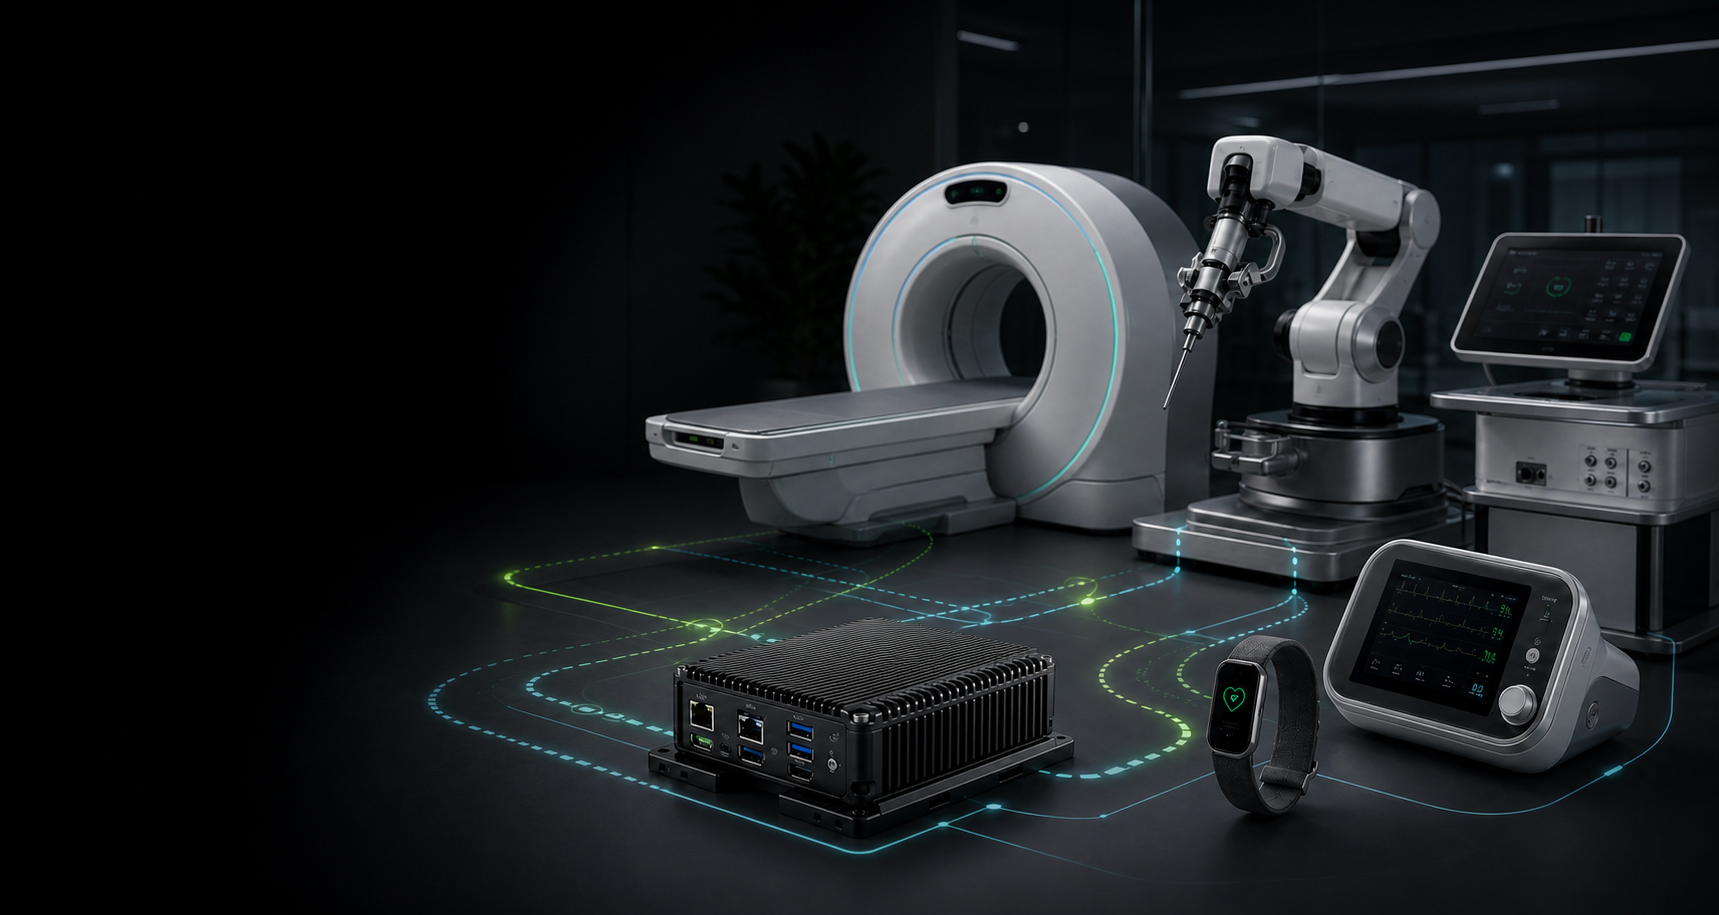
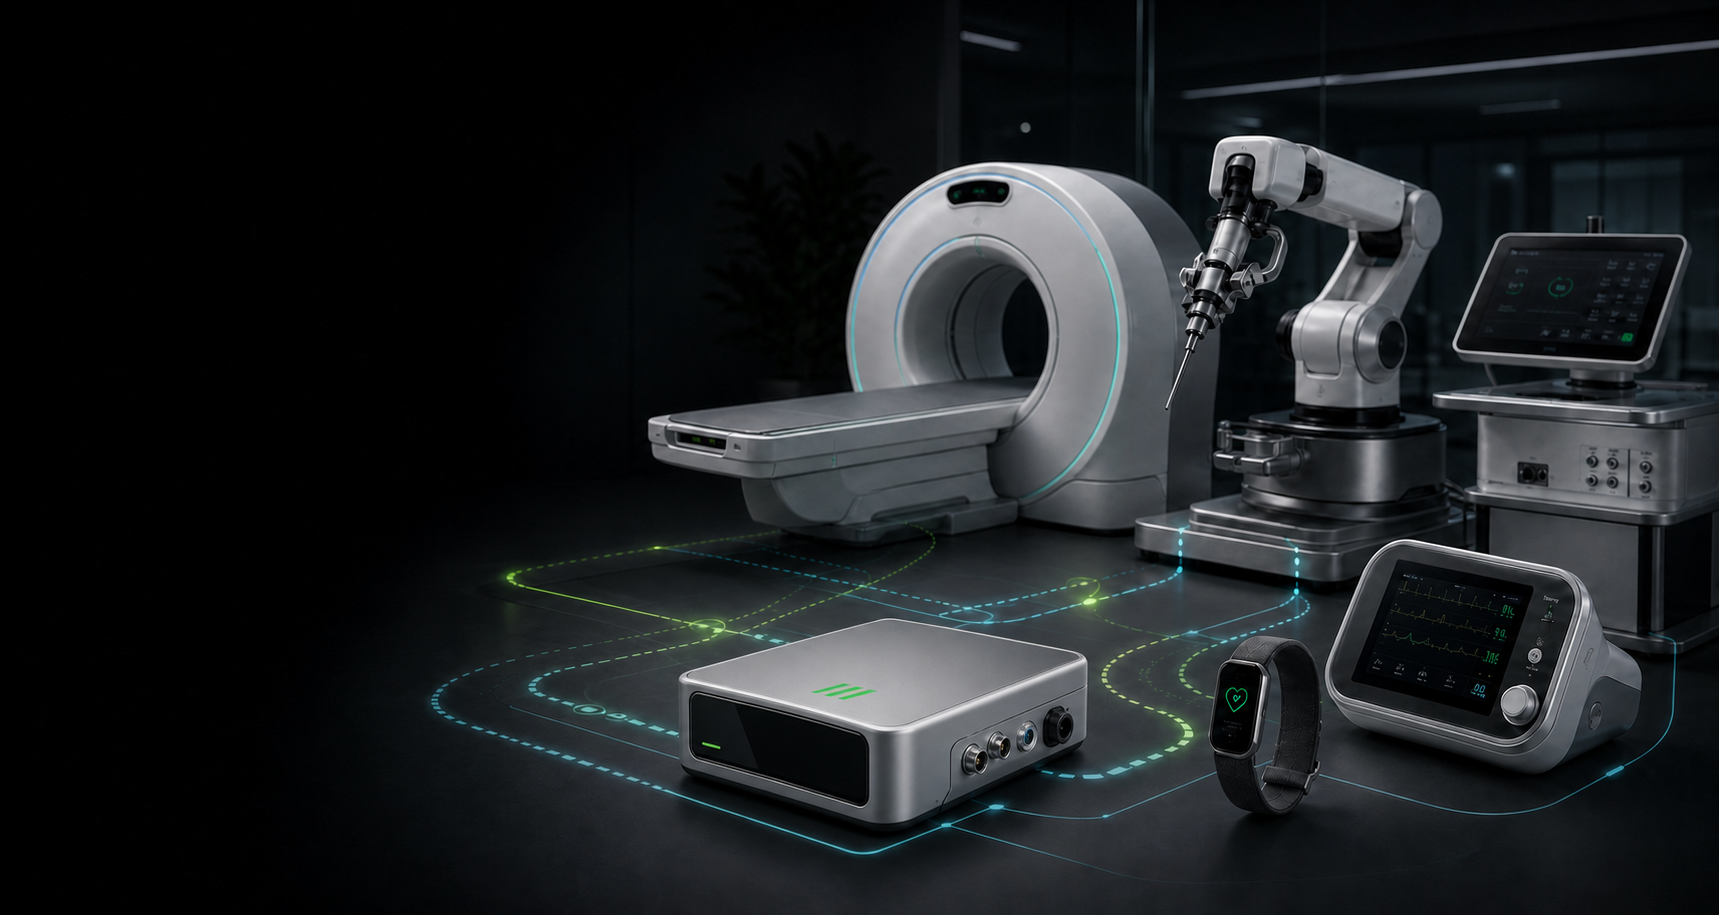
Refine medical partner hero

diff --git a/bootstrap-studio/en-medical-partners.html b/bootstrap-studio/en-medical-partners.html
@@ -1,6 +1,6 @@
 <!doctype html><html lang="en"><head><meta charset="utf-8"><meta name="viewport" content="width=device-width,initial-scale=1"><title>Medical Device Partners | HOLYCORES</title><meta name="description" content="HOLYCORES medical-device collaboration framework for joint development, validation, regulatory boundaries and lifecycle support."><link rel="icon" href="assets/brand/favicon.ico" sizes="any"><link rel="stylesheet" href="assets/style.css"></head>
 <body><main class="studio-detail partner-page medical-page"><header class="nav"><a class="brand" href="en.html"><img class="brand-logo" src="assets/brand/logo-1.0.svg" alt=""><strong>HOLYCORES</strong></a><nav><div class="nav-products"><a class="nav-products-trigger" href="en-products.html" aria-haspopup="true">Products <span aria-hidden="true">⌄</span></a><div class="nav-products-menu"><div class="mega-intro"><small>HOLYCORES COMPUTE PLATFORM</small><h2>From cloud,<br>to edge.</h2><p>One architecture and one software foundation, shaped for every place intelligence runs.</p><a href="en-products.html">Explore the platform →</a></div><div class="mega-products"><a class="mega-product" href="en-galaxy.html"><span class="mega-number">01</span><i aria-hidden="true"></i><div><small>CLOUD</small><h3>GALAXY</h3><b>Cloud AI System</b><p>Scale-out infrastructure for training and production inference.</p></div><em aria-hidden="true">↗</em></a><a class="mega-product" href="en-nova.html"><span class="mega-number">02</span><i aria-hidden="true"></i><div><small>DATACENTER</small><h3>NOVA</h3><b>Datacenter Accelerator</b><p>Efficient acceleration for private AI and high-throughput services.</p></div><em aria-hidden="true">↗</em></a><a class="mega-product" href="en-spark.html"><span class="mega-number">03</span><i aria-hidden="true"></i><div><small>EDGE</small><h3>SPARK</h3><b>Edge AI Processor</b><p>Responsive local intelligence under real power and space constraints.</p></div><em aria-hidden="true">↗</em></a></div><aside class="mega-side"><a href="en-software.html"><small>HOLYFLOW™</small><h3>Software completes the system.</h3><p>Compile, optimize, deploy, and operate across every HOLYCORES product.</p><span>Explore software →</span></a><a href="en-contact.html"><small>START WITH A WORKLOAD</small><h3>Build the right validation plan.</h3><span>Talk to the team →</span></a></aside></div></div><div class="nav-software"><a class="nav-software-trigger" href="en-software.html" aria-haspopup="true">Software <span aria-hidden="true">⌄</span></a><div class="nav-software-menu"><div class="software-mega-intro"><small>HOLYFLOW™ SOFTWARE</small><h2>From model,<br>to running system.</h2><p>One open stack connecting frameworks, compilation, operators, runtime and production deployment.</p><a href="en-software.html">Explore HOLYFLOW →</a></div><div class="software-mega-grid"><a href="en-software.html#compiler"><span>01</span><b>HOLYFLOW Compiler</b><small>Model import and hardware-aware compilation</small></a><a href="en-software.html#operators"><span>02</span><b>HOLYFLOW NN</b><small>Optimized Python / C++ operator library</small></a><a href="en-software.html#kernel"><span>03</span><b>HOLYFLOW Kernel</b><small>Custom operators and dataflow kernels</small></a><a href="en-software.html#runtime"><span>04</span><b>HOLYFLOW Runtime</b><small>Single-card, multi-card and cluster execution</small></a><a href="en-software.html#tools"><span>05</span><b>HOLYFLOW Studio</b><small>Graph analysis, profiling and debugging</small></a><a href="en-software.html#deployment"><span>06</span><b>HOLYFLOW Deploy</b><small>Model serving and fleet operations</small></a></div><aside class="software-mega-side"><small>DEVELOPER PATH</small><h3>From first model to custom kernel.</h3><p>Enter at the right abstraction level and retain the freedom to go deeper.</p><a href="en-developers.html">Developer hub →</a></aside></div></div><div class="nav-solutions"><a class="nav-solutions-trigger" href="en-solutions.html" aria-haspopup="true">Solutions <span aria-hidden="true">⌄</span></a><div class="nav-solutions-menu"><div class="solutions-mega-intro"><small>WORKLOAD TO PRODUCTION</small><h2>From workload,<br>to a running service.</h2><p>Build a verifiable AI system around models, data, infrastructure, and operating constraints.</p><a href="en-solutions.html">Explore all solutions →</a></div><div class="solutions-mega-grid"><a href="en-solutions.html#llm"><span>01</span><b>LLM inference</b><small>Long context, prefill, decode, and scale-out serving</small></a><a href="en-solutions.html#private"><span>02</span><b>Enterprise &amp; sovereign AI</b><small>Dedicated capacity, data boundaries, local operations</small></a><a href="en-solutions.html#rag"><span>03</span><b>RAG &amp; agents</b><small>Retrieval, reranking, tools, and multi-model pipelines</small></a><a href="en-solutions.html#physical"><span>04</span><b>Physical &amp; edge AI</b><small>Vision, robotics, and real-time decisions in the field</small></a></div><aside class="solutions-mega-side"><small>START WITH EVIDENCE</small><h3>Bring the model, baseline, and target. Define the right validation path.</h3><a href="en-contact.html">Talk to solutions engineering →</a></aside></div></div><a href="en-developers.html">Developers</a><a href="en-company.html">Company</a><a href="en-careers.html">Careers</a></nav><div class="studio-nav-actions"><a href="medical-partners.html">中文</a><a class="nav-cta" href="en-contact.html">Contact →</a></div></header>
-<section class="partner-hero medical-hero"><div><p>MEDICAL DEVICE PARTNERS</p><h1>Trusted intelligence<br>inside medical devices.</h1><span>We work with device manufacturers, algorithm teams, research institutions and clinical engineering partners on verifiable, maintainable systems with explicit boundaries.</span><a href="#engage">Discuss a use case →</a></div><figure><img src="assets/medical-device-hero.png" alt="HOLYCORES medical-device edge intelligence"></figure></section>
+<section class="partner-hero medical-hero"><div><p>MEDICAL DEVICE PARTNERS</p><h1>With intelligent compute, medical devices<br>become more trustworthy.</h1><span>We work with device manufacturers, algorithm teams, research institutions and clinical engineering partners on verifiable, maintainable systems with explicit boundaries.</span><a href="#engage">Discuss a use case →</a></div><figure><img src="assets/medical-device-hero.png" alt="HOLYCORES medical-device edge intelligence"></figure></section>
 <nav class="studio-subnav partner-subnav"><a href="#opportunities">Opportunities</a><a href="#platform">Platform</a><a href="#evidence">Evidence</a><a href="#roles">Roles</a><a href="#process">Process</a><a href="#engage">Contact</a></nav>
 <section class="partner-intro" id="opportunities"><div class="partner-heading"><p>COLLABORATION AREAS</p><h2>From device compute<br>to controlled workflows.</h2><span>HOLYCORES provides a general compute and software foundation. Intended use, classification, clinical evaluation and market authorization are defined per project and target jurisdiction.</span></div><div class="partner-card-grid"><article><b>01</b><h3>Medical imaging</h3><p>Compute evaluation for reconstruction, enhancement, segmentation and device-side workflows.</p></article><article><b>02</b><h3>Diagnostics and laboratory</h3><p>Vision, signal and multimodal processing with local control and analysis.</p></article><article><b>03</b><h3>Surgical and robotic systems</h3><p>Joint engineering for low-latency perception, navigation, control boundaries and redundancy.</p></article><article><b>04</b><h3>Monitoring and wearables</h3><p>Edge intelligence under power, privacy, connectivity and continuous-operation constraints.</p></article></div><p class="medical-disclaimer">These are examples of technical collaboration. They do not indicate that any HOLYCORES product has medical-device clearance, certification or authorization, and they are not medical advice.</p></section>
 <section class="partner-dark" id="platform"><div class="partner-heading"><p>PLATFORM CAPABILITIES</p><h2>A complete device boundary,<br>not just a model.</h2><span>Compute, software, data, security, thermal design and lifecycle management must work as one system and be validated for the target device and intended use.</span></div><div class="partner-standard-grid"><article><span>COMPUTE</span><h3>Heterogeneous compute</h3><ul><li>Vision, signals and inference</li><li>Deterministic tasks and isolation</li><li>Power- and thermal-aware optimization</li></ul></article><article><span>SOFTWARE</span><h3>Controlled software stack</h3><ul><li>Model conversion and versioning</li><li>Runtime, operators and profiling</li><li>Reproducible build and deployment</li></ul></article><article><span>SECURITY</span><h3>Security and data boundaries</h3><ul><li>Identity, access and updates</li><li>Local processing and minimal exposure</li><li>Component inventory and response</li></ul></article><article><span>LIFECYCLE</span><h3>Long-term maintenance</h3><ul><li>Compatibility and change control</li><li>Traceability and field feedback</li><li>Supply-lifecycle planning</li></ul></article></div></section>

diff --git a/bootstrap-studio/medical-partners.html b/bootstrap-studio/medical-partners.html
@@ -3,7 +3,7 @@
 <head><meta charset="utf-8"><meta name="viewport" content="width=device-width,initial-scale=1"><title>医疗器械合作伙伴 | HOLYCORES</title><meta name="description" content="HOLYCORES 面向医疗器械领域的计算平台合作框架，覆盖联合开发、验证、法规边界与产品生命周期。"><link rel="icon" href="assets/brand/favicon.ico" sizes="any"><link rel="stylesheet" href="assets/style.css"></head>
 <body><main class="studio-detail partner-page medical-page">
 <header class="nav"><a class="brand" href="index.html"><img class="brand-logo" src="assets/brand/logo-1.0.svg" alt=""><strong>HOLYCORES</strong></a><nav><div class="nav-products"><a class="nav-products-trigger" href="products.html" aria-haspopup="true">产品 <span aria-hidden="true">⌄</span></a><div class="nav-products-menu"><div class="mega-intro"><small>HOLYCORES 计算平台</small><h2>从云端，<br>到边缘。</h2><p>以统一架构与统一软件底座，覆盖智能发生的每一个位置。</p><a href="products.html">探索完整平台 →</a></div><div class="mega-products"><a class="mega-product" href="galaxy.html"><span class="mega-number">01</span><i aria-hidden="true"></i><div><small>云端</small><h3>GALAXY 天穹</h3><b>云端 AI 计算系统</b><p>面向大模型训练与生产推理的横向扩展基础设施。</p></div><em aria-hidden="true">↗</em></a><a class="mega-product" href="nova.html"><span class="mega-number">02</span><i aria-hidden="true"></i><div><small>数据中心</small><h3>NOVA 星核</h3><b>数据中心 AI 加速卡</b><p>服务企业私有 AI 与高吞吐推理的高效加速平台。</p></div><em aria-hidden="true">↗</em></a><a class="mega-product" href="spark.html"><span class="mega-number">03</span><i aria-hidden="true"></i><div><small>边缘</small><h3>SPARK 灵核</h3><b>边缘 AI 处理器</b><p>在真实功耗、空间与环境约束下实现本地智能。</p></div><em aria-hidden="true">↗</em></a></div><aside class="mega-side"><a href="software.html"><small>HOLYFLOW™</small><h3>软件，让平台成为完整系统。</h3><p>在所有 HOLYCORES 产品上完成编译、优化、部署与运营。</p><span>探索软件 →</span></a><a href="contact.html"><small>从真实工作负载开始</small><h3>共同制定正确的验证路径。</h3><span>联系团队 →</span></a></aside></div></div><div class="nav-software"><a class="nav-software-trigger" href="software.html" aria-haspopup="true">软件 <span aria-hidden="true">⌄</span></a><div class="nav-software-menu"><div class="software-mega-intro"><small>HOLYFLOW™ SOFTWARE</small><h2>从模型，<br>到运行系统。</h2><p>一个开放的软件栈，连接框架、编译、算子、运行时与生产部署。</p><a href="software.html">探索 HOLYFLOW →</a></div><div class="software-mega-grid"><a href="software.html#compiler"><span>01</span><b>HOLYFLOW Compiler</b><small>模型导入与硬件感知编译</small></a><a href="software.html#operators"><span>02</span><b>HOLYFLOW NN</b><small>Python / C++ 优化算子库</small></a><a href="software.html#kernel"><span>03</span><b>HOLYFLOW Kernel</b><small>自定义算子与数据流内核</small></a><a href="software.html#runtime"><span>04</span><b>HOLYFLOW Runtime</b><small>单卡、多卡与集群执行</small></a><a href="software.html#tools"><span>05</span><b>HOLYFLOW Studio</b><small>图分析、性能剖析与调试</small></a><a href="software.html#deployment"><span>06</span><b>HOLYFLOW Deploy</b><small>模型服务与设备运营</small></a></div><aside class="software-mega-side"><small>DEVELOPER PATH</small><h3>从第一个模型，走到自定义内核。</h3><p>按你的控制深度选择入口，保留逐层下探的能力。</p><a href="developers.html">开发者中心 →</a></aside></div></div><div class="nav-solutions"><a class="nav-solutions-trigger" href="solutions.html" aria-haspopup="true">解决方案 <span aria-hidden="true">⌄</span></a><div class="nav-solutions-menu"><div class="solutions-mega-intro"><small>WORKLOAD TO PRODUCTION</small><h2>从工作负载，<br>到持续运行。</h2><p>围绕模型、数据、基础设施与运营约束构建可验证的 AI 系统。</p><a href="solutions.html">探索全部方案 →</a></div><div class="solutions-mega-grid"><a href="solutions.html#llm"><span>01</span><b>大模型推理</b><small>长上下文、Prefill、Decode 与规模服务</small></a><a href="solutions.html#private"><span>02</span><b>企业与主权 AI</b><small>专属容量、数据边界与本地运营</small></a><a href="solutions.html#rag"><span>03</span><b>RAG 与智能体</b><small>检索、重排、工具调用与多模型流水线</small></a><a href="solutions.html#physical"><span>04</span><b>物理 AI 与边缘</b><small>机器视觉、机器人与现场实时决策</small></a></div><aside class="solutions-mega-side"><small>START WITH EVIDENCE</small><h3>带上模型、基线与目标，定义正确的验证路径。</h3><a href="contact.html">联系解决方案团队 →</a></aside></div></div><a href="developers.html">开发者</a><a href="company.html">公司</a><a href="careers.html">职业</a></nav><div class="studio-nav-actions"><a href="en-medical-partners.html">EN</a><a class="nav-cta" href="contact.html">联系 →</a></div></header>
-<section class="partner-hero medical-hero"><div><p>MEDICAL DEVICE PARTNERS</p><h1>让智能计算，<br>进入可信赖的医疗器械。</h1><span>与医疗器械企业、算法团队、科研机构和临床工程伙伴共同探索可验证、可维护、边界清晰的智能设备平台。</span><a href="#engage">讨论合作场景 →</a></div><figure><img src="assets/medical-device-hero.png" alt="HOLYCORES 医疗器械边缘智能合作平台"></figure></section>
+<section class="partner-hero medical-hero"><div><p>MEDICAL DEVICE PARTNERS</p><h1>有了智能计算，让医疗器械<br>更加值得信赖。</h1><span>与医疗器械企业、算法团队、科研机构和临床工程伙伴共同探索可验证、可维护、边界清晰的智能设备平台。</span><a href="#engage">讨论合作场景 →</a></div><figure><img src="assets/medical-device-hero.png" alt="HOLYCORES 医疗器械边缘智能合作平台"></figure></section>
 <nav class="studio-subnav partner-subnav" aria-label="本页导航"><a href="#opportunities">合作方向</a><a href="#platform">平台能力</a><a href="#evidence">验证框架</a><a href="#roles">责任边界</a><a href="#process">合作流程</a><a href="#engage">联系</a></nav>
 <section class="partner-intro" id="opportunities"><div class="partner-heading"><p>COLLABORATION AREAS</p><h2>从设备端计算，<br>到受控的智能工作流。</h2><span>HOLYCORES 提供通用计算与软件基础。具体医疗用途、预期用途、风险分类、临床评价和市场准入由合作项目依据目标市场法规共同定义。</span></div><div class="partner-card-grid"><article><b>01</b><h3>医学影像设备</h3><p>面向图像重建、增强、分割和设备内辅助工作流的计算平台评估。</p></article><article><b>02</b><h3>体外诊断与实验室设备</h3><p>支持视觉、信号和多模态数据处理，以及本地设备控制与分析。</p></article><article><b>03</b><h3>手术、治疗与机器人平台</h3><p>围绕低延迟感知、导航、控制边界和系统冗余开展联合工程。</p></article><article><b>04</b><h3>监护与可穿戴设备</h3><p>在功耗、隐私、连接和长期运行约束下评估端侧智能能力。</p></article></div><p class="medical-disclaimer">以上为技术合作方向示例，不代表任何 HOLYCORES 产品已取得医疗器械注册、认证或临床用途授权，也不构成诊断或治疗建议。</p></section>
 <section class="partner-dark" id="platform"><div class="partner-heading"><p>PLATFORM CAPABILITIES</p><h2>不是单一模型，<br>而是完整设备边界。</h2><span>医疗器械智能化需要计算、软件、数据、安全、热设计和生命周期管理共同工作。平台能力需在目标设备和预期用途下验证。</span></div><div class="partner-standard-grid"><article><span>COMPUTE</span><h3>异构计算</h3><ul><li>视觉、信号与模型推理</li><li>确定性任务和资源隔离</li><li>功耗与散热约束下优化</li></ul></article><article><span>SOFTWARE</span><h3>可控软件栈</h3><ul><li>模型转换与版本管理</li><li>运行时、算子与性能分析</li><li>可复现构建和部署路径</li></ul></article><article><span>SECURITY</span><h3>安全与数据边界</h3><ul><li>身份、访问和更新机制</li><li>本地数据处理与最小暴露</li><li>组件清单与漏洞响应协同</li></ul></article><article><span>LIFECYCLE</span><h3>长期维护</h3><ul><li>兼容、变更和停产管理</li><li>问题追溯与现场反馈闭环</li><li>长期供货风险共同规划</li></ul></article></div></section>

diff --git a/bootstrap-studio/assets/style.css b/bootstrap-studio/assets/style.css
@@ -157,4 +157,6 @@ html[lang="zh-CN"] .studio-galaxy #overview .studio-insight-head>span{justify-se
 /* PARTNER VISUAL INTEGRATION */
 .partner-hero{position:relative;display:flex;overflow:hidden;background:#09090a}.partner-hero>div{width:47%;padding-right:2vw}.partner-hero figure{position:absolute;inset:76px 0 0 auto;width:62%;height:calc(100% - 76px);background:#09090a}.partner-hero figure img{width:100%;height:100%;object-fit:cover}.partner-hero figure:after{content:"";position:absolute;inset:0;background:linear-gradient(90deg,#09090a 0%,#09090af2 9%,#09090a9e 22%,#09090a30 39%,transparent 58%);pointer-events:none}.medical-hero{background:#09090a}.medical-hero figure{background:#09090a}
 .partner-split{background:#151517;color:#f2f1ec}.partner-split small{color:var(--acid)}.partner-split p,.partner-split li span{color:#a2a39e}.partner-split ol,.partner-split li{border-color:#ffffff2b}.partner-split li b{color:#f2f1ec}.partner-split figure{background:#0b0b0c}
+html[lang="zh-CN"] .medical-hero h1{font-size:clamp(48px,3.8vw,72px);line-height:1;white-space:nowrap}html[lang="en"] .medical-hero h1{font-size:clamp(42px,4.3vw,72px);line-height:1}
 @media(max-width:900px){.partner-hero{display:block;padding-bottom:0}.partner-hero>div{width:100%;padding:0 0 65px}.partner-hero figure{position:relative;inset:auto;width:calc(100% + 48px);height:430px;margin-left:-24px}.partner-hero figure:after{background:linear-gradient(180deg,#09090a 0%,#09090aaf 12%,transparent 38%)}.partner-split figure{min-height:470px}}
+@media(max-width:900px){html[lang="zh-CN"] .medical-hero h1{font-size:clamp(42px,11vw,62px);white-space:normal}html[lang="en"] .medical-hero h1{font-size:clamp(38px,10vw,58px)}}
